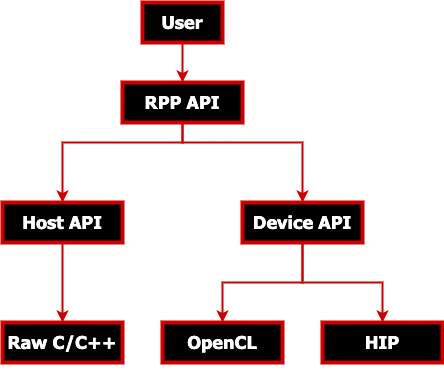
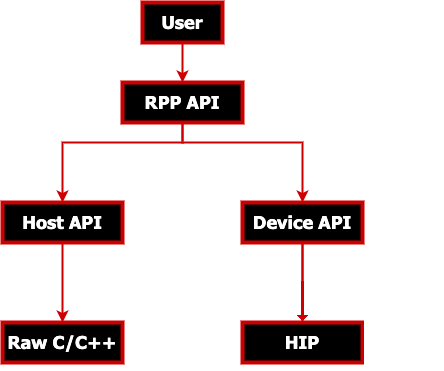
RPP ReadMe update for all new functionality (#696)
* update images in readme

* Add voxel gifs , modify the images for 2D augmentations

* update testsuite readme

* updated original images

* updated augmentation table and added slice image

---------

[ROCm/rpp commit: 3543b50027966eff98a5c9ed872b14bcacdaee07]

Changed region(s): [[0.3514, 0.7412, 1.0, 1.0]]

diff --git a/projects/rpp/README.md b/projects/rpp/README.md
@@ -1,44 +1,53 @@
 [![MIT licensed](https://img.shields.io/badge/license-MIT-blue.svg)](https://opensource.org/licenses/MIT)
 [![doc](https://img.shields.io/badge/doc-readthedocs-blueviolet)](https://gpuopen-professionalcompute-libraries.github.io/rpp/)
 
-<p align="center"><img width="70%" src="https://github.com/ROCm/rpp/raw/master/docs/data/AMD_RPP_logo.png" /></p>
+<p align="center"><img width="70%" src="docs/data/AMD_RPP_logo.png" /></p>
 
 
 > [!NOTE]
 > The published documentation is available at [ROCm Performance Primitives (RPP)](https://rocm.docs.amd.com/projects/rpp/en/latest/index.html) in an organized, easy-to-read format, with search and a table of contents. The documentation source files reside in the `docs` folder of this repository. As with all ROCm projects, the documentation is open source. For more information on contributing to the documentation, see [Contribute to ROCm documentation](https://rocm.docs.amd.com/en/latest/contribute/contributing.html).
 
 AMD ROCm Performance Primitives (RPP) library is a comprehensive, high-performance computer
-vision library for AMD processors that have `HIP`, `OpenCL`, or `CPU` backends.
+vision library for AMD processors that have `HIP`, or `CPU` backends.
 
-<p align="center"><img width="35%" src="https://github.com/ROCm/rpp/raw/master/docs/data/rpp_structure_4.png" /></p>
+<p align="center"><img width="35%" src="docs/data/rpp_structure_4.png" /></p>
 
 #### Latest release
 [![GitHub tag (latest SemVer)](https://img.shields.io/github/v/tag/GPUOpen-ProfessionalCompute-Libraries/rpp?style=for-the-badge)](https://github.com/ROCm/rpp/releases)
 
-## Supported functionalities and variants
+## Supported Augmentations / Primitives
 
-<p align="center"><img width="90%" src="https://github.com/ROCm/rpp/raw/master/docs/data/supported_functionalities.png" /></p>
+RPP supports various 2D image, 3D image (voxel), audio and miscellaneous augmentations and primitives as listed below.
 
-<p align="center"><img width="90%" src="https://github.com/ROCm/rpp/raw/master/docs/data/supported_functionalities_samples.jpg" /></p>
+<p align="center"><img width="90%" src="docs/data/supported_functionalities.png" /></p>
 
-### Supported 3D Functionalities Samples
+## Supported 2D Image Augmentations Samples
 
-Input<br>(nifti1 .nii medical image) | fused_multiply_add_scalar<br>(brightened 3D image)
-:-------------------------:|:-------------------------:
-![](docs/data/niftiInput.gif)  |  ![](docs/data/niftiOutputBrightened.gif)
+<p align="center"><img width="90%" src="docs/data/supported_functionalities_samples.jpg" /></p>
 
-## Supported audio functionalities and variants
-* Below are the list of audio functions supported
-  * Non Silent Region Detection (HOST and HIP)
-  * To Decibels (HOST and HIP)
-  * Downmixing (HOST and HIP)
-  * Preemphasis Filter (HOST and HIP)
-  * Resample (HOST and HIP)
-  * Mel Filter Bank (HOST and HIP)
-  * Spectrogram (HOST and HIP)
+## Supported 3D Image Augmentations Samples
 
-Spectrogram kernel output represented as a image <br><br>
-![](docs/data/spectrogramOutput.png)
+<div align="center">
+
+| &nbsp; | Input<br>(3D voxel image) | &nbsp; |
+|:-------------------------:|:-------------------------:|:-------------------------:|
+| &nbsp; | ![](docs/data/doxygenInputs/input150x150x4.gif) | &nbsp; |
+| add_scalar<br>(3D scalar addition) | subtract_scalar<br>(3D scalar subtraction) | multiply_scalar<br>(3D scalar multiplication) |
+| ![](docs/data/doxygenOutputs/arithmetic_operations_add_scalar_150x150x4.gif) | ![](docs/data/doxygenOutputs/arithmetic_operations_subtract_scalar_150x150x4.gif) | ![](docs/data/doxygenOutputs/arithmetic_operations_multiply_scalar_150x150x4.gif) |
+| fused_multiply_add_scalar<br>(brightened 3D image) | gaussian_noise<br>(3D noise augmentation) | flip<br>(3D flip augmentation) |
+| ![](docs/data/doxygenOutputs/arithmetic_operations_fused_multiply_add_scalar_150x150x4.gif) | ![](docs/data/doxygenOutputs/effects_augmentations_gaussian_noise_150x150x4.gif) | ![](docs/data/doxygenOutputs/geometric_augmentations_flip_150x150x4.gif) |
+
+</div>
+
+slice (3D slice - 100x200 from 240x240x155):
+
+<p align="center"><img src="docs/data/doxygenOutputs/geometric_augmentations_slice_100x200x155.gif" /></p>
+
+## Supported Audio Augmentations Samples
+
+Spectrogram functionality output represented as an image:
+
+<p align="center"><img width="55%" src="docs/data/spectrogramOutput.png" /></p>
   
 ## Prerequisites
 
@@ -150,9 +159,6 @@ sudo zypper install rpp rpp-devel rpp-test
   ```shell
   git clone https://github.com/ROCm/rpp.git
   ```
-
-> [!NOTE]
-> RPP has support for two GPU backends: **OPENCL** and **HIP**:
 
 #### HIP Backend
 

diff --git a/projects/rpp/utilities/test_suite/README.md b/projects/rpp/utilities/test_suite/README.md
@@ -63,8 +63,8 @@ The image test suite can be executed under 2 backend scenarios - (HOST/HIP):
 The image test suite accepts the following command line arguments:
 -   input_path1: The path to the input folder 1. Default is $cwd/../TEST_IMAGES/three_images_mixed_src1
 -   input_path2: The path to the input folder 2. Default is $cwd/../TEST_IMAGES/three_images_mixed_src2
--   case_start: The starting case number for the test range (0-91). Default is 0
--   case_end: The ending case number for the test range (0-91). Default is 91
+-   case_start: The starting case number for the test range (0-102). Default is 0
+-   case_end: The ending case number for the test range (0-102). Default is 102
 -   test_type: The type of test to run (0 = Unit tests, 1 = Performance tests). Default is 0
 -   case_list: A list of specific case numbers to run. Must be used in conjunction with --test_type
 -   profiling: Run the tests with a profiler (YES/NO). Default is NO. This option is only available with HIP backend
@@ -90,7 +90,7 @@ python runImageTests.py --input_path1 <input_path1> --input_path2 <input_path2> 
 -   QA mode (Unit tests) - Tolerance based PASS/FAIL tests for RPP HIP/HOST functionalities checking pixelwise match between C/SSE/AVX/HIP versions after comparison to preset golden outputs. Please note that QA mode is only supported with a batch size of 3.
 Note: QA mode is not supported for case 84 due to run-to-run variation of outputs.
 ``` python
-python runImageTests.py --case_start 0 --case_end 91 --test_type 0 --qa_mode 1 --batch_size 3
+python runImageTests.py --case_start 0 --case_end 102 --test_type 0 --qa_mode 1 --batch_size 3
 ```
 -   QA mode (Performance tests) - Tolerance based PASS/FAIL tests for RPP HIP/HOST functionalities checking achieved improvement in performance percentage over BatchPD versions after comparison to a threshold percentage of improvement
 ``` python
@@ -100,13 +100,13 @@ python runImageTests.py --case_list 21 36 63 --test_type 1 --qa_mode 1 --batch_s
 Note: For testcase 82(RICAP) Please use images of same resolution and Batchsize > 1
       RICAP dataset path: rpp/utilities/test_suite/TEST_IMAGES/three_images_150x150_src1
 ``` python
-python runImageTests.py --case_start 0 --case_end 91 --test_type 0 --qa_mode 0
+python runImageTests.py --case_start 0 --case_end 102 --test_type 0 --qa_mode 0
 ```
 -   Performance test mode - Performance tests that execute the desired functionality and variant 100 times by default, and report max/min/avg RPP execution wall time, or optionally, AMD rocprof kernel profiler max/min/avg time for HIP backend variants.
 Note: For testcase 82(RICAP) Please use images of same resolution and Batchsize > 1
       RICAP dataset path: rpp/utilities/test_suite/TEST_IMAGES/three_images_150x150_src1
 ``` python
-python runImageTests.py --case_start 0 --case_end 91 --test_type 1
+python runImageTests.py --case_start 0 --case_end 102 --test_type 1
 ```
 
 To run the unit tests / performance tests for specific case numbers. please case use case_list parameter. Example as below
@@ -214,9 +214,9 @@ You are free to use and/or refer to the BraTS datasets in your own research, pro
 -   S. Bakas, M. Reyes, A. Jakab, S. Bauer, M. Rempfler, A. Crimi, et al., "Identifying the Best Machine Learning Algorithms for Brain Tumor Segmentation, Progression Assessment, and Overall Survival Prediction in the BRATS Challenge", arXiv preprint arXiv:1811.02629 (2018)
 
 ## RPP Audio Test Suite
-The audio test suite can be executed to validate the functionality and performance of the AMD ROCm Performance Primitives (RPP) audio library.
+The audio test suite can be executed to validate the functionality and performance of the AMD ROCm Performance Primitives (RPP) audio library. It can be executed under 2 backend scenarios - (HOST/HIP):
 -   HOST backend - (On a CPU with HOST backend)
--   F32 Bit Depth
+-   HIP backend - (On a GPU with HIP backend)
 
 ### Command Line Arguments (RPP Audio Test Suite)
 The audio test suite accepts the following command line arguments:
@@ -265,10 +265,9 @@ The audio test suite includes:
 -   Support for output referencing against golden outputs, and functionality validation checking, by tolerance-based pass/fail criterions for each variant.
 
 ## RPP Miscellaneous Test Suite
-The miscellaneous test suite can be executed to validate the functionality and performance of the AMD ROCm Performance Primitives (RPP) generic libraries that can process N-Dimensional inputs
+The miscellaneous test suite can be executed to validate the functionality and performance of the AMD ROCm Performance Primitives (RPP) generic libraries that can process N-Dimensional inputs. It can be executed under 2 backend scenarios - (HOST/HIP):
 -   HOST backend - (On a CPU with HOST backend)
 -   HIP backend - (On a GPU with HIP backend)
--   F32 Bit Depth
 
 ### Command Line Arguments (RPP Miscellaneous Test Suite)
 The miscellaneous test suite accepts the following command line arguments: